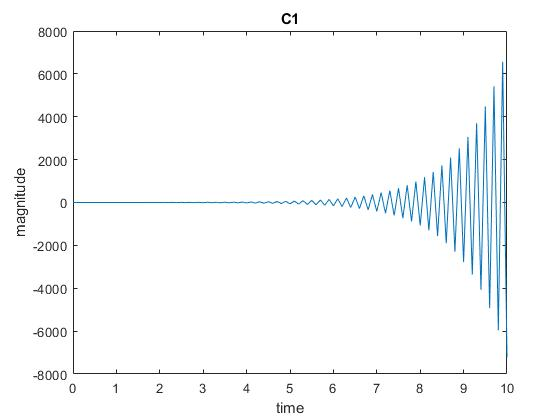
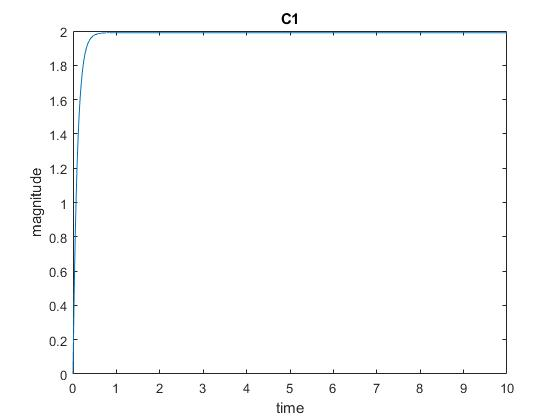
Finished up problem 8

diff --git a/p5/p5.m b/p5/p5.m
@@ -1,7 +1,7 @@
 % System Simulation Problem 5
 % Written by Josh Humphrey
-N = 100;
-T = 0.1;
+N = 10000;
+T = 0.01;
 t = linspace(0,10,N+1);
 u1 = ones(1,N);
 u2 = ones(1,N);
@@ -18,17 +18,17 @@ y1 = x1;
 y2 = x1;
 
 for k = 1:N
-    f1(k) = -x1(k)-2*u1(1,k);
-    x1(k+1)=-x1(k)-2*u1(k)+T*f1(k);
+    f1(k) = -x1(k)-2*u1(k);
+    x1(k+1)=x1(k)+T*f1(k);
     
-    f2(k) = -x2(k)+4*u1(1,k);
-    x2(k+1) = -x2(k)+4*u1(1,k)+T*f2(k);
+    f2(k) = -x2(k)+4*u1(k);
+    x2(k+1) =x2(k)+T*f2(k);
     
     f3(k) = -x3(k)+3*u2(1,k);
-    x3(k+1) = -x3(k)+3*u2(1,k)+T*f3(k);
+    x3(k+1) = x2(k)+T*f3(k);
     
     f4(k) = -x4(k)-6*u2(1,k);
-    x4(k+1) = -x4(k)-6*u2(1,k)+T*f4(k);
+    x4(k+1) = x4(k)+T*f4(k);
     
     y1(k+1) = x1(k+1)+x3(k+1);
     y2(k+1) = x2(k+1)+x4(k+1)+8*u2(1,k);
